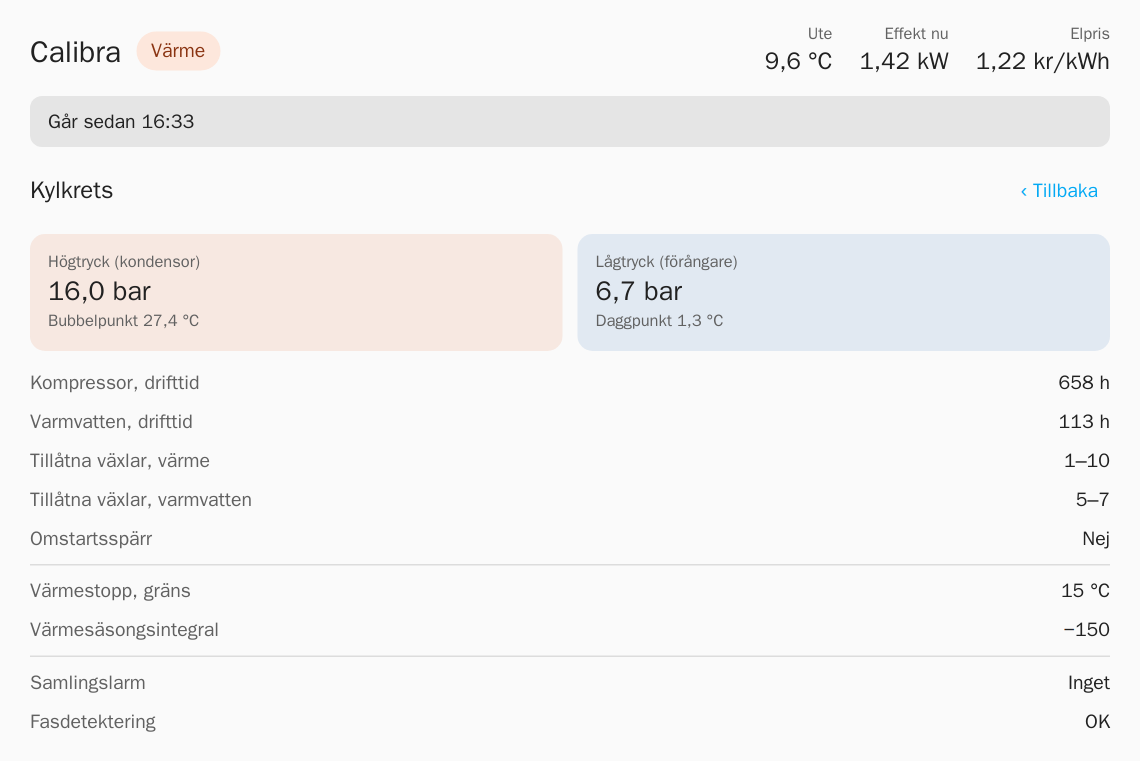
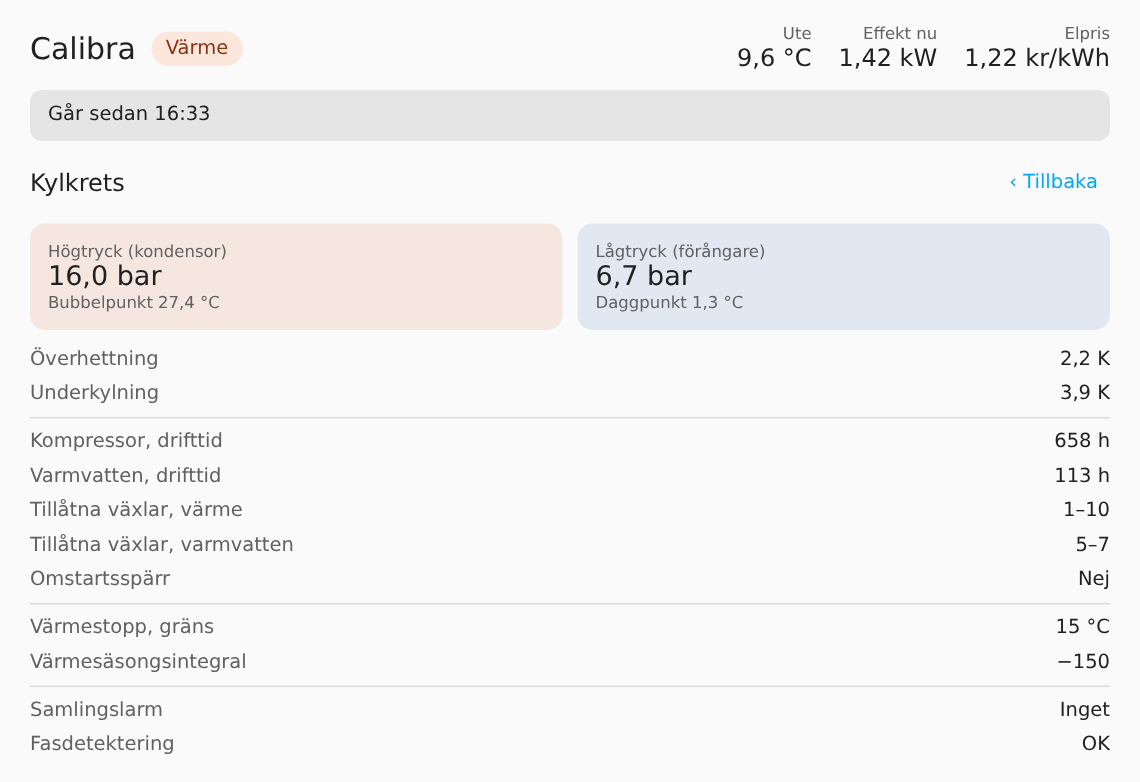
0.9.0: the pump's own power estimate, COP, supply set point, superheat (#2)
For the sensors added in thermiagenesis 1.1. They are disabled by default there; the card draws each one it finds and nothing changes without them.

- Effekt nu falls back to the pump's own estimate when no power meter is configured.
- New tiles: heat output with the live COP, the day's COP, and the energy taken from the borehole.
- The supply set point sits beside the supply temperature.
- Superheat and subcooling lead the refrigerant circuit view.

diff --git a/dist/calibra-card.js b/dist/calibra-card.js
@@ -9,7 +9,7 @@
  * MIT License
  */
 
-const CARD_VERSION = "0.8.2";
+const CARD_VERSION = "0.9.0";
 
 // Entity defaults: the thermiagenesis entity ids. Anything else (power meter, price, the
 // valve, the water heater) is site specific and only shown when configured.
@@ -48,6 +48,16 @@ const DEFAULT_ENTITIES = {
   tap_water_hours: `sensor.${TG}_tap_water_operating_hours`,
   gear_min_heat: `number.${TG}_minimum_allowed_gear_in_heating`,
   phase_alarm: `binary_sensor.${TG}_power_input_phase_detection_alarm`,
+  // thermiagenesis 1.1 and later. All of these are disabled by default there, and each is
+  // only drawn when its entity exists. Power and energy are the pump's own estimate; no
+  // electric meter module is needed.
+  heat_output: `sensor.${TG}_heat_output_power`,
+  consumed_power: `sensor.${TG}_consumed_electrical_power`,
+  cop_day: `sensor.${TG}_reported_cop`,
+  source_energy: `sensor.${TG}_energy_from_natural_source`,
+  supply_setpoint: `sensor.${TG}_system_supply_line_calculated_set_point`,
+  superheat: `sensor.${TG}_superheat_temperature`,
+  subcooling: `sensor.${TG}_sub_cooling_temperature`,
 };
 
 const COLORS = {
@@ -68,6 +78,8 @@ const T = {
     heaterIdle: "vilar", heaterOn: "värmer", taps: "Kranar", outdoor: "Ute", power: "Effekt nu", price: "Elpris",
     heatStopOn: (t) => `Värmestopp på${t}`, heatStopOff: (t) => `Värmestopp av${t}`, limit: (t) => ` (${t})`,
     pumpToday: "Värmepump el idag", heaterToday: "Beredare idag", brineMin: "Lägsta brine idag", immHours: "Intern elpatron, totalt",
+    heatNow: "Värme ut nu", copDay: "COP, senaste dygnet", sourceDay: "Borrhål, senaste dygnet",
+    setpoint: (v) => `bör ${v}`, superheat: "Överhettning", subcooling: "Underkylning",
     back: "‹ Tillbaka", hp: "Högtryck (kondensor)", lp: "Lågtryck (förångare)", bubble: "Bubbelpunkt", dew: "Daggpunkt",
     compHours: "Kompressor, drifttid", tapHours: "Varmvatten, drifttid", gearsHeat: "Tillåtna växlar, värme",
     gearsTap: "Tillåtna växlar, varmvatten", blocked: "Omstartsspärr", minLeft: (m) => `${m} min kvar`, yes: "Ja", no: "Nej",
@@ -94,6 +106,8 @@ const T = {
     heaterIdle: "idle", heaterOn: "heating", taps: "Taps", outdoor: "Outdoor", power: "Power", price: "Price",
     heatStopOn: (t) => `Heating stop on${t}`, heatStopOff: (t) => `Heating stop off${t}`, limit: (t) => ` (${t})`,
     pumpToday: "Heat pump today", heaterToday: "Water heater today", brineMin: "Lowest brine today", immHours: "Immersion heater, total",
+    heatNow: "Heat output", copDay: "COP, last day", sourceDay: "Borehole, last day",
+    setpoint: (v) => `→ ${v}`, superheat: "Superheat", subcooling: "Subcooling",
     back: "‹ Back", hp: "High pressure (condenser)", lp: "Low pressure (evaporator)", bubble: "Bubble point", dew: "Dew point",
     compHours: "Compressor hours", tapHours: "Hot water hours", gearsHeat: "Allowed gears, heating",
     gearsTap: "Allowed gears, hot water", blocked: "Restart delay", minLeft: (m) => `${m} min left`, yes: "Yes", no: "No",
@@ -149,6 +163,13 @@ function sinceWhen(iso, lang, t, now = new Date()) {
   if (diff <= 0) return hm;
   if (diff === 1) return `${t.yesterday} ${hm}`;
   return `${d.toLocaleDateString(loc, { day: "numeric", month: "short" }).replace(".", "")} ${hm}`;
+}
+
+// A power sensor's value in kW. thermiagenesis reports kW; a sensor in W is converted.
+function kw(hass, id) {
+  const v = num(hass, id);
+  if (v === null) return null;
+  return hass.states[id].attributes?.unit_of_measurement === "W" ? v / 1000 : v;
 }
 
 function fmtPower(w, lang) {
@@ -302,10 +323,18 @@ class CalibraCard extends HTMLElement {
     const immHours = (Array.isArray(e.immersion_hours) ? e.immersion_hours : e.immersion_hours ? [e.immersion_hours] : [])
       .map((id) => num(hass, id));
 
+    // The pump's own estimate of what it draws and delivers. A configured power meter still
+    // owns the header; without one the estimate takes its place.
+    const pumpKw = kw(hass, e.consumed_power), heatKw = kw(hass, e.heat_output);
+    const elecKw = pumpKw ?? (e.power && num(hass, e.power) !== null ? num(hass, e.power) / 1000 : null);
+    const copNow = running && heatKw > 0 && elecKw > 0.1 ? heatKw / elecKw : null;
+    const powerEntity = e.power || (pumpKw !== null ? e.consumed_power : null);
+
     return {
       chip, why, tone,
       outdoor: fmt(outdoor, 1, "°C", lang),
-      power: e.power ? fmtPower(num(hass, e.power), lang) : null,
+      power: e.power ? fmtPower(num(hass, e.power), lang) : pumpKw !== null ? fmtPower(pumpKw * 1000, lang) : null,
+      powerEntity,
       price: e.price ? `${fmt(num(hass, e.price), 2, "", lang)} ${hass?.states?.[e.price]?.attributes?.unit_of_measurement || ""}`.trim() : null,
       brineIn: fmt(n("brine_in"), 1, "°", lang), brineOut: fmt(n("brine_out"), 1, "°", lang),
       brineDt: n("brine_in") !== null && n("brine_out") !== null ? fmt(n("brine_in") - n("brine_out"), 1, "", lang) : "–",
@@ -318,6 +347,7 @@ class CalibraCard extends HTMLElement {
       immersion: e.immersion ? this._immersionModel(immersion) : null,
       supply: heatOn || heatStop ? fmt(n("condenser_out"), 1, "°", lang) : fmt(n("condenser_out"), 1, "°", lang),
       ret: fmt(n("condenser_in"), 1, "°", lang),
+      supplySet: n("supply_setpoint") !== null ? t.setpoint(fmt(n("supply_setpoint"), 1, "°", lang)) : null,
       heatDt: n("condenser_out") !== null && n("condenser_in") !== null ? fmt(n("condenser_out") - n("condenser_in"), 1, "", lang) : "–",
       // The pump row says whether it runs; the power sensor, when configured, opens on tap.
       floor: e.floor_pump ? (() => { const on = isOn(hass, e.floor_pump); return { on, text: on ? t.floorOn : t.floorOff }; })() : null,
@@ -332,6 +362,9 @@ class CalibraCard extends HTMLElement {
         heater: e.heater_energy ? fmt(this._stats.heater, 1, "kWh", lang) : null,
         brine: fmt(this._stats.brine, 1, "°C", lang),
         imm: immHours.length ? immHours.map((h) => fmt(h, 0, "h", lang)).join(" · ") : null,
+        heat: heatKw !== null ? `${fmt(heatKw, 2, "kW", lang)}${copNow !== null ? ` · COP ${fmt(copNow, 1, "", lang)}` : ""}` : null,
+        cop: n("cop_day") !== null ? fmt(n("cop_day"), 1, "", lang) : null,
+        source: n("source_energy") !== null ? fmt(n("source_energy"), 0, "kWh", lang) : null,
       },
     };
   }
@@ -351,11 +384,16 @@ class CalibraCard extends HTMLElement {
     const hass = this._hass, e = this._config.entities, t = this._t, lang = this._lang;
     const n = (k) => num(hass, e[k]);
     const rng = (a, b) => `${n(a) ?? "–"}–${n(b) ?? "–"}`;
+    // Superheat and subcooling, when the pump's sensors for them are enabled
+    const health = [["superheat", t.superheat], ["subcooling", t.subcooling]]
+      .filter(([k]) => n(k) !== null).map(([k, label]) => [label, fmt(n(k), 1, "K", lang), e[k]]);
+    if (health.length) health.push(null);
     return [
       ["hp", fmt(n("high_pressure"), 1, "bar", lang), `${t.bubble} ${fmt(n("bubble_point"), 1, "°C", lang)}`, "high_pressure", "warm"],
       ["lp", fmt(n("low_pressure"), 1, "bar", lang), `${t.dew} ${fmt(n("dew_point"), 1, "°C", lang)}`, "low_pressure", "cold"],
     ].map(([k, v, sub, ent, kind]) => ({ label: t[k], value: v, sub, entity: e[ent], kind }))
       .concat([{ rows: [
+        ...health,
         [t.compHours, fmt(n("compressor_hours"), 0, "h", lang), e.compressor_hours],
         [t.tapHours, fmt(n("tap_water_hours"), 0, "h", lang), e.tap_water_hours],
         [t.gearsHeat, rng("gear_min_heat", "gear_max_heat"), e.gear_max_heat],
@@ -515,7 +553,7 @@ class CalibraCard extends HTMLElement {
   <g class="${m.heatOn || m.heatStop ? "" : "dim"}">
     <rect x="560" y="52" width="152" height="118" rx="12" class="box"/>
     ${txt(572, 72, t.radiators, "lbl")}
-    ${txt(572, 94, t.supply, "sm")}${txt(700, 94, m.supply, "val", e.condenser_out, "end")}
+    ${txt(572, 94, t.supply, "sm")}${m.supplySet ? txt(694 - 7.4 * m.supply.length, 94, m.supplySet, "xs muted opt", e.supply_setpoint, "end") : ""}${txt(700, 94, m.supply, "val", e.condenser_out, "end")}
     ${txt(572, 114, t.ret, "sm")}${txt(700, 114, m.ret, "val", e.condenser_in, "end")}
     ${m.floor ? `${txt(700, 72, `ΔT ${m.heatDt}`, "lbl opt", "", "end")}
     <g class="pump" data-entity="${esc(e.floor_pump)}">
@@ -562,7 +600,7 @@ class CalibraCard extends HTMLElement {
       `<div class="stat"${ent ? ` data-entity="${esc(ent)}"` : ""}><div class="lbl">${esc(label)}</div><div class="v">${esc(value)}</div></div>`;
     const head = [
       [t.outdoor, m.outdoor, e.outdoor],
-      [t.power, m.power, e.power],
+      [t.power, m.power, m.powerEntity],
       [t.price, m.price, e.price],
     ].filter((x) => x[1] !== null).map(([l, v, ent]) => `<div class="hstat" data-entity="${esc(ent)}"><div class="lbl">${esc(l)}</div><div class="v">${esc(v)}</div></div>`).join("");
 
@@ -583,6 +621,9 @@ class CalibraCard extends HTMLElement {
         ${stat(t.heaterToday, m.stats.heater, e.heater_energy)}
         ${stat(t.brineMin, m.stats.brine, e.brine_in)}
         ${stat(t.immHours, m.stats.imm, Array.isArray(e.immersion_hours) ? e.immersion_hours[0] : e.immersion_hours)}
+        ${stat(t.heatNow, m.stats.heat, e.heat_output)}
+        ${stat(t.copDay, m.stats.cop, e.cop_day)}
+        ${stat(t.sourceDay, m.stats.source, e.source_energy)}
       </div>`;
     }
     return `

diff --git a/test/card.test.js b/test/card.test.js
@@ -336,3 +336,85 @@ test("no floor heating row without the option", () => {
   assert.equal(c._model().floor, null);
   assert.ok(!html(c).includes("Golvvärme"));
 });
+
+// thermiagenesis 1.1 sensors: the pump's own power estimate, COP, set point, superheat
+const PUMP = {
+  [`sensor.${P}_heat_output_power`]: "4.26",
+  [`sensor.${P}_consumed_electrical_power`]: "1.16",
+  [`sensor.${P}_reported_cop`]: "3.4",
+  [`sensor.${P}_energy_from_natural_source`]: "83",
+  [`sensor.${P}_system_supply_line_calculated_set_point`]: "33.86",
+  [`sensor.${P}_superheat_temperature`]: "2.21",
+  [`sensor.${P}_sub_cooling_temperature`]: "3.93",
+};
+
+test("pump estimate sensors are disabled by default in thermiagenesis: without them nothing new is drawn", () => {
+  const c = card();
+  const m = c._model();
+  assert.equal(m.stats.heat, null);
+  assert.equal(m.stats.cop, null);
+  assert.equal(m.stats.source, null);
+  assert.equal(m.supplySet, null);
+  assert.ok(!html(c).includes("COP"));
+  assert.ok(!html(c).includes("bör"));
+  c._detail = "circuit";
+  c._render();
+  assert.ok(!html(c).includes("Överhettning"));
+});
+
+test("pump estimate: heat output with the live COP, the day's COP and the energy from the borehole", () => {
+  const c = card(PUMP);
+  const m = c._model();
+  assert.equal(m.stats.heat, "4,26 kW · COP 3,7", "COP from the pump's own pair: 4.26 / 1.16");
+  assert.equal(m.stats.cop, "3,4");
+  assert.equal(m.stats.source, "83 kWh");
+  assert.match(html(c), /Värme ut nu/);
+  assert.match(html(c), /Borrhål, senaste dygnet/);
+});
+
+test("pump estimate: no COP while the compressor stands still", () => {
+  const c = card({ ...PUMP, [`binary_sensor.${P}_compressor_control_signal`]: "off", [`sensor.${P}_heat_output_power`]: "0" });
+  assert.equal(c._model().stats.heat, "0,00 kW");
+});
+
+test("header power: a configured meter wins, the pump's estimate fills in without one", () => {
+  const withMeter = card(PUMP);
+  assert.equal(withMeter._model().power, "1,42 kW");
+  assert.equal(withMeter._model().powerEntity, "sensor.vp_power");
+
+  const { power, ...noMeter } = SITE;
+  const c = card(PUMP, { entities: noMeter });
+  assert.equal(c._model().power, "1,16 kW");
+  assert.equal(c._model().powerEntity, `sensor.${P}_consumed_electrical_power`);
+  assert.match(html(c), /Effekt nu/);
+
+  const none = card({}, { entities: noMeter });
+  assert.equal(none._model().power, null, "neither a meter nor the estimate: no power in the header");
+});
+
+test("pump estimate: a power sensor in W is read as W", () => {
+  const { power, ...noMeter } = SITE;
+  const c = card(PUMP, { entities: noMeter });
+  const st = states(PUMP);
+  st[`sensor.${P}_consumed_electrical_power`] = { state: "1160", attributes: { unit_of_measurement: "W" } };
+  c._sig = null;
+  c.hass = { states: st, locale: { language: "sv" } };
+  assert.equal(c._model().power, "1,16 kW");
+});
+
+test("supply set point sits beside the supply temperature and opens its own entity", () => {
+  const c = card(PUMP);
+  assert.equal(c._model().supplySet, "bör 33,9°");
+  assert.match(html(c), new RegExp(`data-entity="sensor.${P}_system_supply_line_calculated_set_point">bör 33,9°`));
+  assert.equal(card(PUMP, {}, "en")._model().supplySet, "→ 33.9°");
+});
+
+test("refrigerant view: superheat and subcooling lead the rows when the pump reports them", () => {
+  const c = card(PUMP);
+  c._detail = "circuit";
+  c._render();
+  const h = html(c);
+  assert.match(h, /Överhettning<\/span><span>2,2 K/);
+  assert.match(h, /Underkylning<\/span><span>3,9 K/);
+  assert.ok(h.indexOf("Överhettning") < h.indexOf("Kompressor, drifttid"));
+});

diff --git a/test/preview.html b/test/preview.html
@@ -37,18 +37,21 @@
     [`binary_sensor.${P}_sum_alarm`]: "off", [`sensor.${P}_high_pressure_side`]: "16.02", [`sensor.${P}_low_pressure_side`]: "6.74",
     [`sensor.${P}_bubble_point`]: "27.41", [`sensor.${P}_dew_point`]: "1.25", [`sensor.${P}_compressor_operating_hours`]: "658",
     [`sensor.${P}_tap_water_operating_hours`]: "113", [`binary_sensor.${P}_power_input_phase_detection_alarm`]: "off",
+    [`sensor.${P}_heat_output_power`]: "4.26", [`sensor.${P}_consumed_electrical_power`]: "1.16", [`sensor.${P}_reported_cop`]: "3.4",
+    [`sensor.${P}_energy_from_natural_source`]: "83", [`sensor.${P}_system_supply_line_calculated_set_point`]: "33.9",
+    [`sensor.${P}_superheat_temperature`]: "2.21", [`sensor.${P}_sub_cooling_temperature`]: "3.93",
     "sensor.vp_power": "1420", "binary_sensor.valve": "off", "sensor.heater_power": "0", "sensor.price": "1.2227",
     "sensor.imm1": "16", "switch.floor": "on", "sensor.floor_w": "28.6", "sensor.imm2": "12", "input_boolean.sauna": "off", "sensor.immersion": "0",
   };
   const modes = {
     heat: {},
-    hw: { "switch.floor": "off", "sensor.floor_w": "0", [`sensor.${P}_first_prioritised_demand`]: "Hot water", "binary_sensor.valve": "on", [`number.${P}_maximum_allowed_gear_in_tap_water`]: "3",
+    hw: { [`sensor.${P}_heat_output_power`]: "5.9", [`sensor.${P}_consumed_electrical_power`]: "1.94", "switch.floor": "off", "sensor.floor_w": "0", [`sensor.${P}_first_prioritised_demand`]: "Hot water", "binary_sensor.valve": "on", [`number.${P}_maximum_allowed_gear_in_tap_water`]: "3",
       [`sensor.${P}_compressor_current_gear`]: "3", "input_boolean.sauna": "on", "sensor.heater_power": "2800", "sensor.vp_power": "4310",
       [`sensor.${P}_tap_water_top_temperature`]: "44", [`sensor.${P}_tap_water_lower_temperature`]: "38.5", "sensor.immersion": "1" },
-    stop: { [`binary_sensor.${P}_heating_season_active`]: "off", [`binary_sensor.${P}_compressor_control_signal`]: "off",
+    stop: { [`sensor.${P}_heat_output_power`]: "0", [`sensor.${P}_consumed_electrical_power`]: "0.01", [`binary_sensor.${P}_heating_season_active`]: "off", [`binary_sensor.${P}_compressor_control_signal`]: "off",
       [`sensor.${P}_first_prioritised_demand`]: "No demand", [`sensor.${P}_outdoor_temperature`]: "18.4", [`sensor.${P}_brine_circulation_pump_speed`]: "0",
       [`sensor.${P}_condenser_circulation_pump_speed`]: "0", "sensor.vp_power": "14" },
-    idle: { "switch.floor": "off", "sensor.floor_w": "0", [`binary_sensor.${P}_compressor_control_signal`]: "off", [`sensor.${P}_first_prioritised_demand`]: "No demand",
+    idle: { [`sensor.${P}_heat_output_power`]: "0", [`sensor.${P}_consumed_electrical_power`]: "0.02", "switch.floor": "off", "sensor.floor_w": "0", [`binary_sensor.${P}_compressor_control_signal`]: "off", [`sensor.${P}_first_prioritised_demand`]: "No demand",
       [`sensor.${P}_brine_circulation_pump_speed`]: "0", [`sensor.${P}_condenser_circulation_pump_speed`]: "42", "sensor.vp_power": "16",
       [`sensor.${P}_compressor_current_gear`]: "0", [`sensor.${P}_compressor_speed_percent`]: "0", [`sensor.${P}_compressor_speed_rpm`]: "0" },
   };

diff --git a/README.md b/README.md
@@ -9,7 +9,7 @@ It draws the system as it is actually plumbed:
 - **Pumps:** the brine pump on the brine line and the condenser pump on the supply, each drawn as a pump whose ring fills with its speed. The impeller spins faster at higher speed; it stays still with reduced motion.
 - **Internal immersion heater:** its active step, drawn as a bar like the gears.
 - **Diverting valve:** splits the supply between the radiators and the TWC tank. The arrow turns and the inactive branch greys out.
-- **Radiators:** supply, return, ΔT and heating stop (on/off and its limit).
+- **Radiators:** supply (with the pump's set point for it), return, ΔT and heating stop (on/off and its limit).
 - **Optional floor heating pump:** a circulation pump for a separate floor heating loop, drawn as a row in the radiator box with its own pump symbol and whether it runs.
 - **TWC tank:** top and bottom temperature, coloured by temperature.
 - **Optional separate water heater** in series after the tank, with its own thermostat, plus the taps.
@@ -85,6 +85,29 @@ notices:
 | `notices` | A list of `{entity, state (default "on"), text}`. Each text is added to the explanation line while its entity is in that state. |
 
 "Today" values (energy and the lowest brine temperature) come from long-term statistics and refresh every 5 minutes.
+
+### The pump's own power, COP and set point
+
+thermiagenesis 1.1 adds sensors for what the pump itself estimates and aims for. They are disabled by default in the integration; enable the ones you want on the device page and the card draws each one it finds. None of them needs the electric meter module.
+
+| Key | thermiagenesis sensor | Where it shows |
+|---|---|---|
+| `consumed_power` | Consumed Electrical Power | "Effekt nu" in the header, when no `power` meter is configured. |
+| `heat_output` | Heat Output Power | "Värme ut nu", with the live COP while the compressor runs. |
+| `cop_day` | Reported COP | "COP, senaste dygnet". |
+| `source_energy` | Energy From Natural Source | "Borrhål, senaste dygnet". |
+| `supply_setpoint` | System Supply Line Calculated Set Point | Beside the supply temperature in the radiator box ("bör 33,9°"). |
+| `superheat`, `subcooling` | Superheat Temperature, Sub Cooling Temperature | First rows of the refrigerant circuit view. |
+
+The live COP is heat output divided by the pump's own power estimate, or by the `power` meter when the estimate isn't enabled.
+
+Home Assistant names sensors you enable now after the device and its area, so their ids may not start with `diplomat_inverter_duo_` like the older ones. If a value doesn't appear, point its key at the id you have:
+
+```yaml
+entities:
+  heat_output: sensor.boiler_room_calibra_heat_output_power
+  consumed_power: sensor.boiler_room_calibra_consumed_electrical_power
+```
 
 ### Hot water tank
 

diff --git a/CHANGELOG.md b/CHANGELOG.md
@@ -1,5 +1,14 @@
 # Changelog
 
+## 0.9.0 — 2026-11-26
+
+For the sensors added in thermiagenesis 1.1. They are disabled by default there; the card draws each one it finds and nothing changes without them.
+
+- **Power without a meter.** With no `power` entity configured, "Effekt nu" shows the pump's own estimate (`consumed_power`). A configured meter still wins.
+- **Heat output and COP.** New tiles under the diagram: "Värme ut nu" with the live COP while the compressor runs (`heat_output`), "COP, senaste dygnet" (`cop_day`) and "Borrhål, senaste dygnet", the energy taken from the borehole (`source_energy`).
+- **Supply set point.** The temperature the pump is aiming for sits beside the supply temperature in the radiator box (`supply_setpoint`). Hidden in the compact layout.
+- **Superheat and subcooling** lead the rows of the refrigerant circuit view (`superheat`, `subcooling`).
+
 ## 0.8.2 — 2026-11-07
 
 - The supply pipes to the radiators or the hot water tank stay coloured while the immersion heater runs on its own, for example at the end of a legionella cycle. They used to turn grey as soon as the compressor stopped, though the condenser pump still carries the heater's heat.
